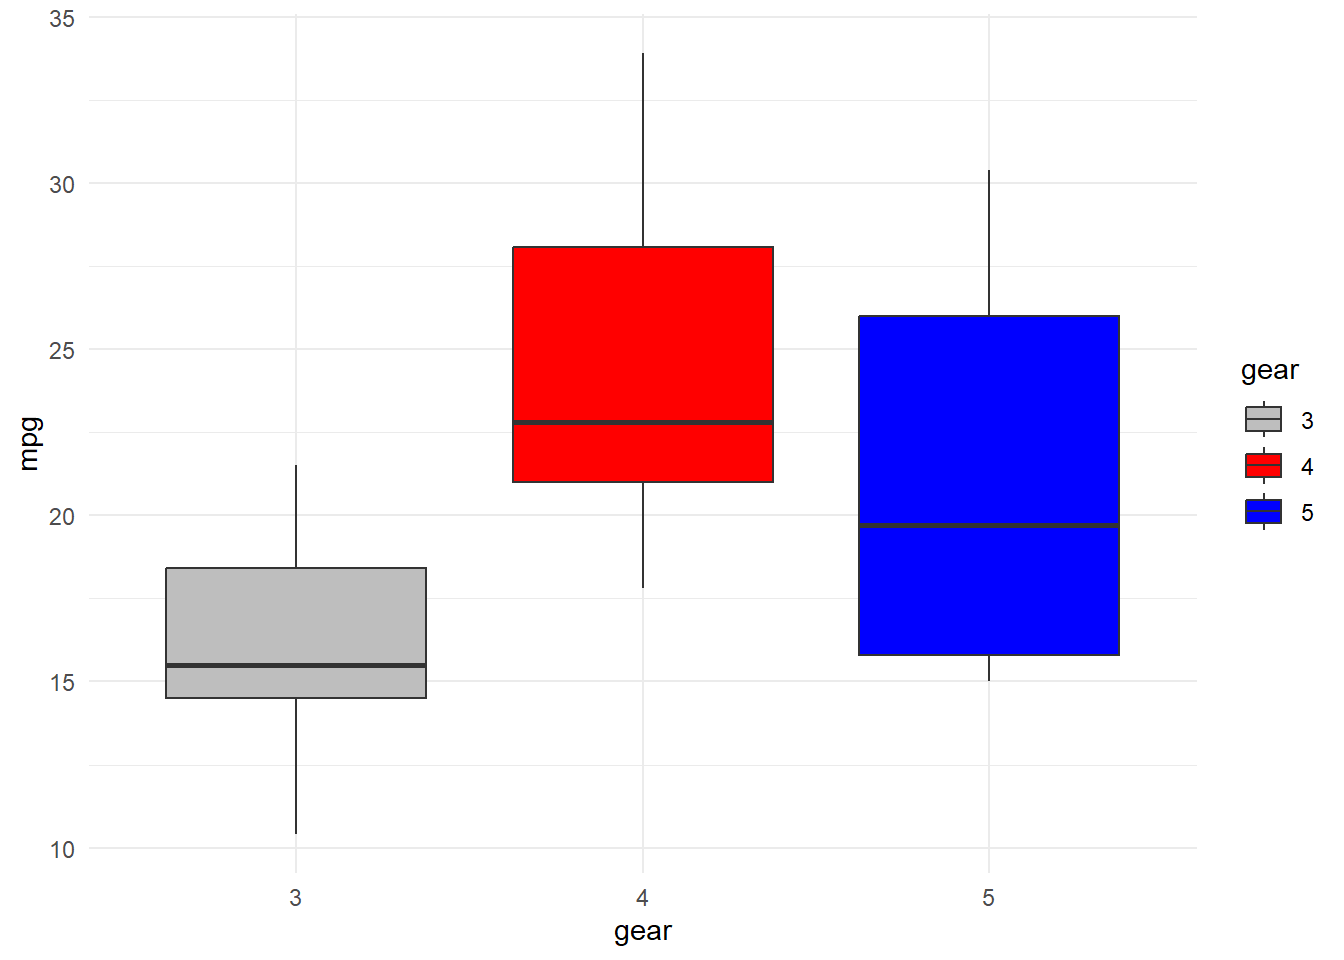
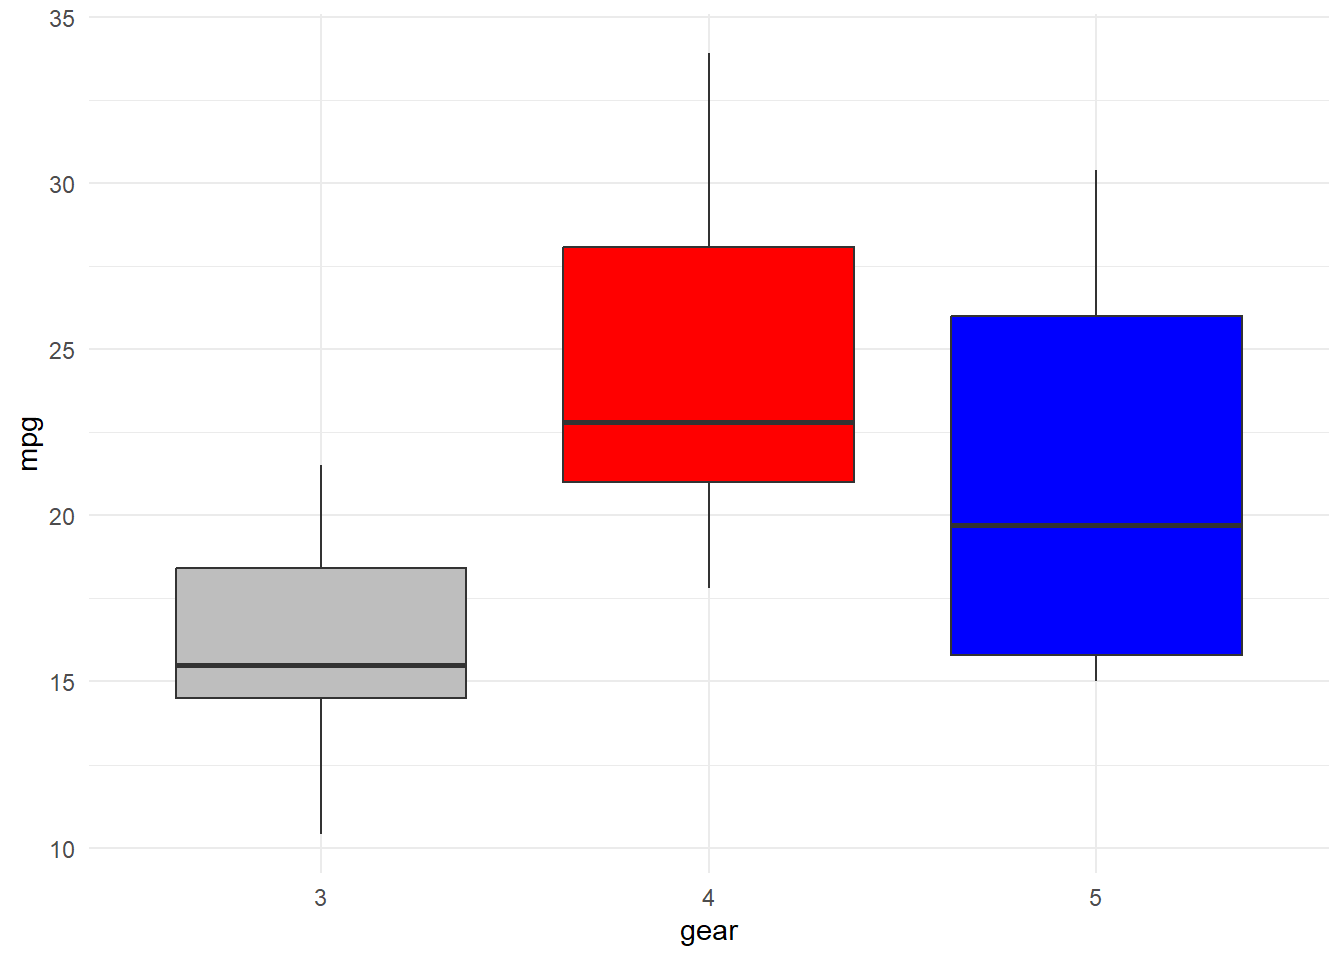
Update Viz

diff --git a/docs/dataviz.html b/docs/dataviz.html
@@ -1023,9 +1023,9 @@ FALSE </code></pre>
 <ul>
 <li>You can also more formally test by using the following formulas.
 <ul>
-<li>Lower bound=Q1−1.5×IQR</li>
-<li>Upper bound=Q3+1.5×IQR</li>
-<li>A data point x is an outlier if x less than lower bound or x is greater than the upper bound. Confirming what we found above, we determine one outlier is present to the left.</li>
+<li><span class="math inline">\(Lower bound=Q1−1.5×IQR\)</span></li>
+<li><span class="math inline">\(Upper bound=Q3+1.5×IQR\)</span></li>
+<li>A data point <span class="math inline">\(x\)</span> is an outlier if <span class="math inline">\(x\)</span> less than lower bound or <span class="math inline">\(x\)</span> is greater than the upper bound. Confirming what we found above, we determine one outlier is present to the left.</li>
 </ul></li>
 </ul>
 <div class="cell">
@@ -1458,8 +1458,8 @@ TRUE </code></pre>
 </ul>
 <div class="cell">
 <div class="sourceCode cell-code" id="cb112"><pre class="sourceCode r code-with-copy"><code class="sourceCode r"><span id="cb112-1"><a href="#cb112-1" aria-hidden="true" tabindex="-1"></a>mtcars <span class="sc">%&gt;%</span></span>
-<span id="cb112-2"><a href="#cb112-2" aria-hidden="true" tabindex="-1"></a>  <span class="fu">ggplot</span>(<span class="fu">aes</span>(<span class="at">x =</span> gear, <span class="at">y =</span> mpg)) <span class="sc">+</span></span>
-<span id="cb112-3"><a href="#cb112-3" aria-hidden="true" tabindex="-1"></a>  <span class="fu">geom_boxplot</span>(<span class="fu">aes</span>(<span class="at">fill =</span> gear)) <span class="sc">+</span></span>
+<span id="cb112-2"><a href="#cb112-2" aria-hidden="true" tabindex="-1"></a>  <span class="fu">ggplot</span>(<span class="fu">aes</span>(<span class="at">x =</span> gear, <span class="at">y =</span> mpg, <span class="at">fill =</span> gear)) <span class="sc">+</span></span>
+<span id="cb112-3"><a href="#cb112-3" aria-hidden="true" tabindex="-1"></a>  <span class="fu">geom_boxplot</span>(<span class="at">show.legend =</span> <span class="cn">FALSE</span>) <span class="sc">+</span></span>
 <span id="cb112-4"><a href="#cb112-4" aria-hidden="true" tabindex="-1"></a>  <span class="fu">scale_fill_manual</span>(<span class="at">values =</span> <span class="fu">c</span>(<span class="st">"gray"</span>, <span class="st">"red"</span>, <span class="st">"blue"</span>)) <span class="sc">+</span></span>
 <span id="cb112-5"><a href="#cb112-5" aria-hidden="true" tabindex="-1"></a>  <span class="fu">theme_minimal</span>()</span></code><button title="Copy to Clipboard" class="code-copy-button"><i class="bi"></i></button></pre></div>
 <div class="cell-output-display">
@@ -1475,7 +1475,7 @@ TRUE </code></pre>
 </ul>
 <div class="cell">
 <div class="sourceCode cell-code" id="cb113"><pre class="sourceCode r code-with-copy"><code class="sourceCode r"><span id="cb113-1"><a href="#cb113-1" aria-hidden="true" tabindex="-1"></a>mtcars <span class="sc">%&gt;%</span></span>
-<span id="cb113-2"><a href="#cb113-2" aria-hidden="true" tabindex="-1"></a>    <span class="fu">ggplot</span>(<span class="fu">aes</span>(<span class="at">x =</span> vs, <span class="at">y =</span> mpg)) <span class="sc">+</span> <span class="fu">geom_boxplot</span>(<span class="fu">aes</span>(<span class="at">fill =</span> vs), <span class="at">show.legend =</span> <span class="cn">FALSE</span>) <span class="sc">+</span></span>
+<span id="cb113-2"><a href="#cb113-2" aria-hidden="true" tabindex="-1"></a>    <span class="fu">ggplot</span>(<span class="fu">aes</span>(<span class="at">x =</span> vs, <span class="at">y =</span> mpg, <span class="at">fill =</span> vs)) <span class="sc">+</span> <span class="fu">geom_boxplot</span>(<span class="at">show.legend =</span> <span class="cn">FALSE</span>) <span class="sc">+</span></span>
 <span id="cb113-3"><a href="#cb113-3" aria-hidden="true" tabindex="-1"></a>    <span class="fu">scale_fill_manual</span>(<span class="at">values =</span> <span class="fu">c</span>(<span class="st">"gray"</span>, <span class="st">"red"</span>)) <span class="sc">+</span> <span class="fu">theme_minimal</span>()</span></code><button title="Copy to Clipboard" class="code-copy-button"><i class="bi"></i></button></pre></div>
 <div class="cell-output-display">
 <div>

diff --git a/docs/probability.html b/docs/probability.html
@@ -2,7 +2,7 @@
 <html xmlns="http://www.w3.org/1999/xhtml" lang="en" xml:lang="en"><head>
 
 <meta charset="utf-8">
-<meta name="generator" content="quarto-1.4.553">
+<meta name="generator" content="quarto-1.4.555">
 
 <meta name="viewport" content="width=device-width, initial-scale=1.0, user-scalable=yes">
 
@@ -238,14 +238,20 @@ window.Quarto = {
 </li>
         <li class="sidebar-item">
   <div class="sidebar-item-container"> 
+  <a href="./rmarkdown.html" class="sidebar-item-text sidebar-link">
+ <span class="menu-text"><span class="chapter-number">12</span>&nbsp; <span class="chapter-title">Intro to RMarkdown</span></span></a>
+  </div>
+</li>
+        <li class="sidebar-item">
+  <div class="sidebar-item-container"> 
   <a href="./summary.html" class="sidebar-item-text sidebar-link">
- <span class="menu-text"><span class="chapter-number">12</span>&nbsp; <span class="chapter-title">Summary</span></span></a>
+ <span class="menu-text"><span class="chapter-number">13</span>&nbsp; <span class="chapter-title">Summary</span></span></a>
   </div>
 </li>
         <li class="sidebar-item">
   <div class="sidebar-item-container"> 
   <a href="./references.html" class="sidebar-item-text sidebar-link">
- <span class="menu-text"><span class="chapter-number">13</span>&nbsp; <span class="chapter-title">Recommended Further Reading Materials</span></span></a>
+ <span class="menu-text"><span class="chapter-number">14</span>&nbsp; <span class="chapter-title">Recommended Further Reading Materials</span></span></a>
   </div>
 </li>
     </ul>
